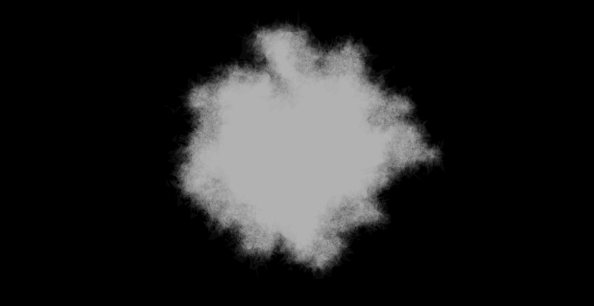
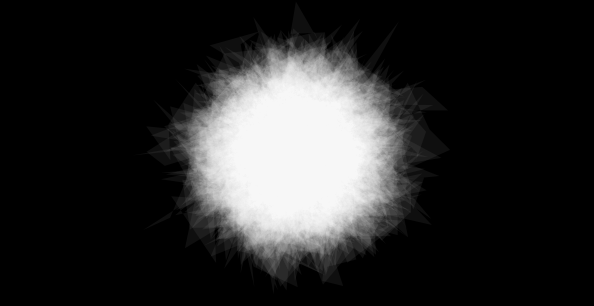
üksik_tups ka korras

Changed region(s): [[0.2424, 0.0588, 0.7576, 0.9412]]

diff --git a/kunst.py b/kunst.py
@@ -345,29 +345,45 @@ def üksik_tups(c, laius, kõrgus):
         return kujund
 
     def deform(kujund, muut):
-        for i in range(len(kujund)-1, 0, -2):
+        for i in range(len(kujund)-1, 0, -2): # deformeeritakse iga külg - ettevaatust! väga koormav arvutile!
             keskpunkti_x = (kujund[i][0] + kujund[i-1][0])/2
             keskpunkti_y = (kujund[i][1] + kujund[i-1][1])/2
             juhu_punkt = (random.gauss(keskpunkti_x, muut), random.gauss(keskpunkti_y, muut))
             kujund.insert(i, juhu_punkt)
+        # viimase ja esimese nurga vahelise külje deformeerimine
+        keskpunkti_x = (kujund[0][0] + kujund[len(kujund)-1][0])/2
+        keskpunkti_y = (kujund[0][1] + kujund[len(kujund)-1][1])/2
+        juhu_punkt = (random.gauss(keskpunkti_x, muut), random.gauss(keskpunkti_y, muut))
+        kujund.insert(0, juhu_punkt)
+        
         return kujund
 
     def tups(kontekst, kujund, baas_muut, baas_deform, udu_muut, udu_deform, kihtide_arv, R, G, B):
-        for a in range(baas_deform):
+        # see funktsioon on kirjutatud kunstniku Tyler Hobbs juhiste järgi, mida on võimalik leida aadressilt: https://tylerxhobbs.com/essays/2017/a-generative-approach-to-simulating-watercolor-paints
+        # saadud tulemust ei tasu Hobbsi versiooniga võrrelda. Arenemisruumi on veel palju. ;)
+        for a in range(baas_deform): # Aluseks võetakse deformeeritud hulknurk. See annab lõpptulemusele üldise kuju.
             baas = deform(kujund, baas_muut)
-        for b in range(kihtide_arv):
-            udu = copy.deepcopy(baas)
+        for b in range(kihtide_arv): # Baas hulknurka deformeeritakse veel mitu korda ja tehakse läbipaistvad kihid üksteise peale
+            udu = copy.deepcopy(baas) # Koopia on vajalik, kuna iga järgnev deformeerimine peab lähtuma samast baasist.
             for d in range(udu_deform):
                 udu = deform(udu, udu_muut)
-            kontekst.move_to(udu[0][0], udu[0][1])
+            kontekst.move_to(udu[0][0], udu[0][1]) # Saadud hulknurk joonistatakse üles.
             for e in range(len(udu)):
                 kontekst.line_to(udu[e][0], udu[e][1])
-            kontekst.set_source_rgba(R, G, B, 0.04)
+            kontekst.line_to(udu[0][0], udu[0][1])
+            kontekst.set_source_rgba(R, G, B, 0.06) # veidi vähem läbipaistvust kui mitme tupsuga mustril
             kontekst.fill()
     
     # põhifunktsioon
-    kujund = hulknurk(10, laius//2, kõrgus//2, kõrgus//3)
-    tups(c, kujund, 10, 6, 5, 7, 30, 1, 1, 1)
+    if laius < kõrgus: # pildi proportsioonid sõltuvad valitud laiusest ja kõrgusest
+        jagatav = laius
+    else:
+        jagatav = kõrgus
+    # Argumendid on valitud selle järgi, et kujund valitud mõõtmetega pildile ära mahuks aga samas ka hea välja näeks.
+    # See on saavutatud katse-eksituse meetodil.
+    kujund = hulknurk(nurgad = 10, keskpunkt_x = laius//2, keskpunkt_y = kõrgus//2, raadius = 1)
+    tups(c, kujund, baas_muut = jagatav//20, baas_deform = 2, udu_muut = jagatav//12, udu_deform = 7, kihtide_arv = 80, R = 1, G = 1, B = 1)
+
 
 def võrknurkne(c, laius, kõrgus):
     # abifunktsioon
